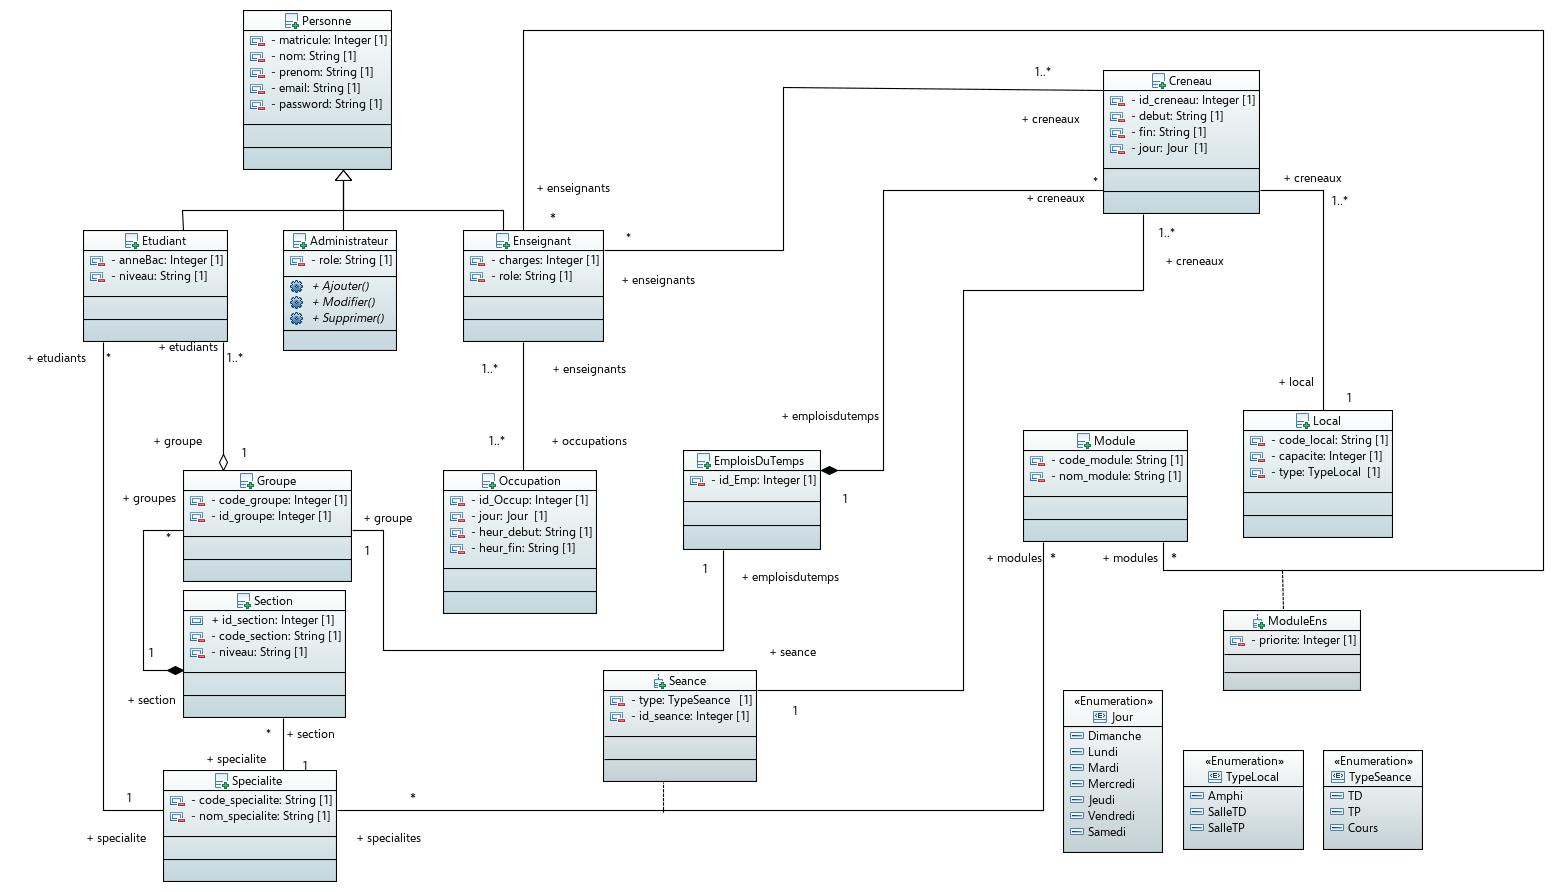
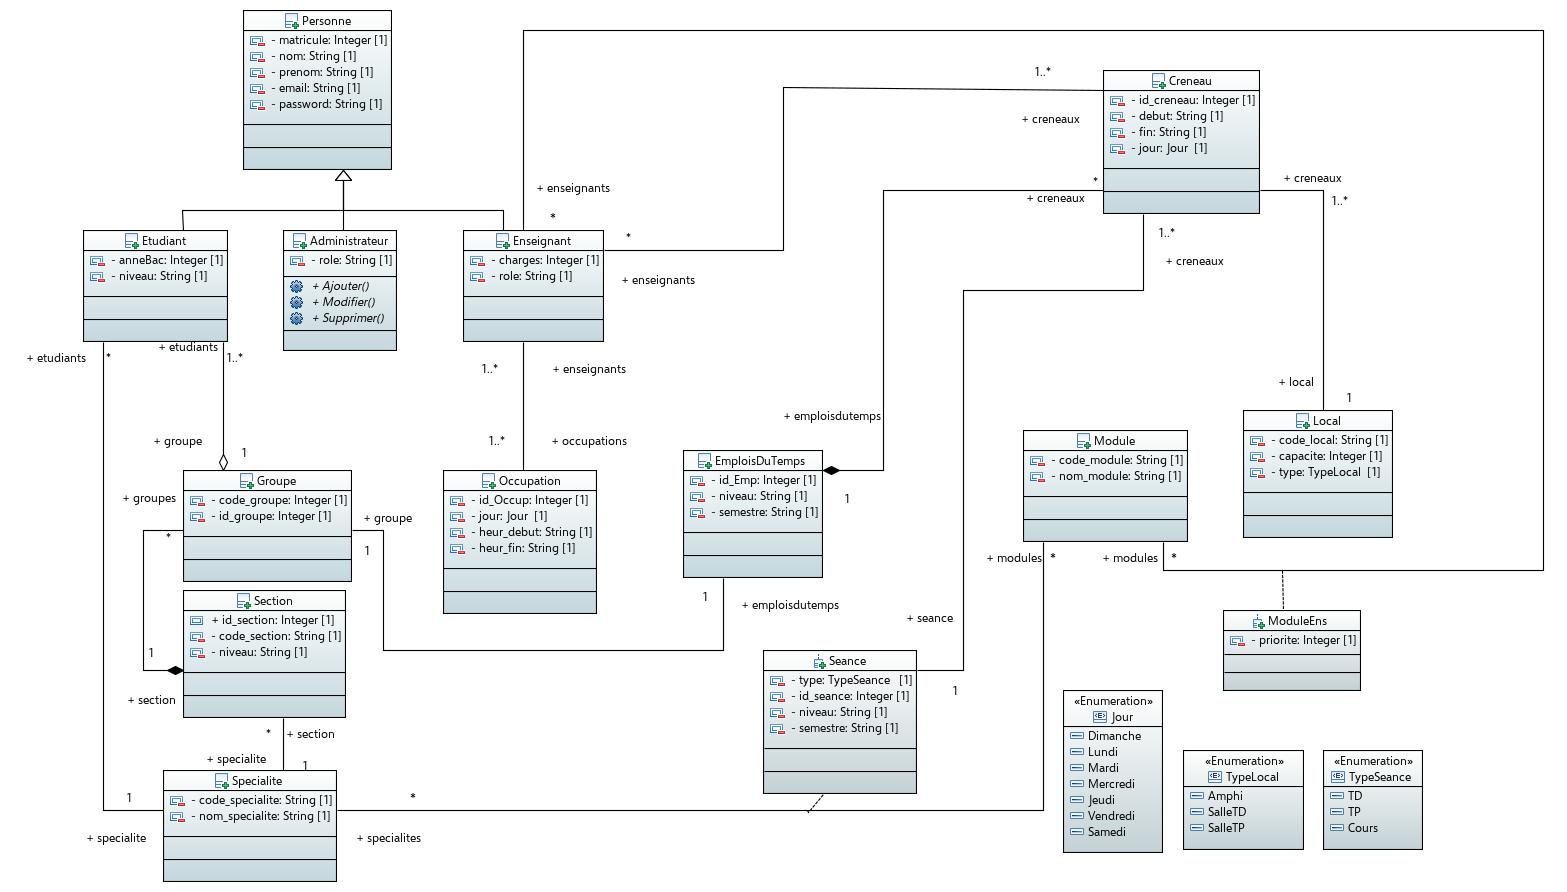
add niveau and semestre to emplois du temps

Changed region(s): [[0.3676, 0.7265, 0.6126, 0.9081], [0.4288, 0.5146, 0.5514, 0.6962], [0.4901, 0.454, 0.5514, 0.4843]]

diff --git a/backend/controllers/EmploisController.js b/backend/controllers/EmploisController.js
@@ -95,15 +95,14 @@ export const selectOneEmploisByGroupe = (req,res) =>{
 
 export const insertOneEmplois = (req,res) =>{
 
-  const { id_groupe } =req.body;
-    createEmplois(id_groupe).then(()=>{
+  const { niveau, semesetre, id_groupe } =req.body;
+    createEmplois(id_groupe, niveau, semesetre).then(()=>{
      
         const response={
             status:"Success",
             message:"Emplois de temps créé "
            }
            res.status(200).json(response);
-
 
     }).catch((err)=>{
         const response={
@@ -118,11 +117,9 @@ export const insertOneEmplois = (req,res) =>{
 }
 
 export const updateOneEmplois =(req,res)=>{
-    const { id_groupe } = req.body;
+    const { id_groupe, niveau, semesetre } = req.body;
     const {id_emp}=req.params;
-    console.log(id_groupe);
-    console.log(id_emp);
-    updateEmplois(id_emp,id_groupe).then(()=>{
+    updateEmplois(id_emp,id_groupe, niveau, semesetre).then(()=>{
         const response={
             status:"Success",
             message:"Emplois de temps mis à jour "

diff --git a/backend/DB/EmploisDuTemps.js b/backend/DB/EmploisDuTemps.js
@@ -36,14 +36,14 @@ export const getOneEmploisByGroupe = (id_groupe) =>{
    
 }
 
-export const createEmplois = (id_groupe) =>{
+export const createEmplois = (id_groupe, niveau, semesetre) =>{
 
-    return db.oneOrNone("INSERT INTO emploisdutemps(id_groupe) values($1) ",[id_groupe]);
+    return db.oneOrNone("INSERT INTO emploisdutemps(id_groupe) values($1, $2, $3) ",[id_groupe, niveau, semesetre]);
 
 }
 
-export const updateEmplois =(id_Emp,id_groupe) =>{
-    return db.oneOrNone("UPDATE emploisdutemps SET id_groupe=$1 WHERE id_Emp=$2 " , [id_groupe,id_Emp]);
+export const updateEmplois =(id_Emp,id_groupe, niveau, semesetre) =>{
+    return db.oneOrNone("UPDATE emploisdutemps SET id_groupe=$1, niveau=$2, semestre=$3 WHERE id_Emp=$4 " , [id_groupe,niveau,semesetre,id_Emp]);
 }
 
 export const deleteEmplois =(id_Emp) => {

diff --git a/backend/validators/emploisDutemps.js b/backend/validators/emploisDutemps.js
@@ -1,8 +1,14 @@
 export const insertOneEmploisValidator = (req, res, next) => {
-    const { id_groupe } = req.body;
+    const { id_groupe, niveau, semestre } = req.body;
     const missingFields = [];
     if (id_groupe === undefined) {
         missingFields.push('id_groupe');
+    }
+    if (niveau === undefined) {
+        missingFields.push('niveau');
+    }
+    if (semestre === undefined) {
+        missingFields.push('semestre');
     }
 
     if (missingFields.length > 0){
@@ -14,5 +20,3 @@ export const insertOneEmploisValidator = (req, res, next) => {
 
     next();
 }
-
-/* test main branch protection */
